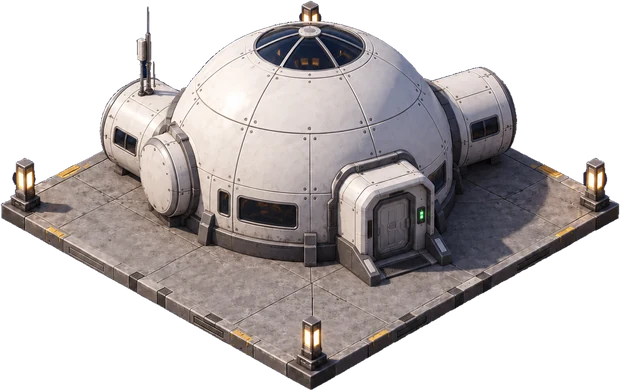
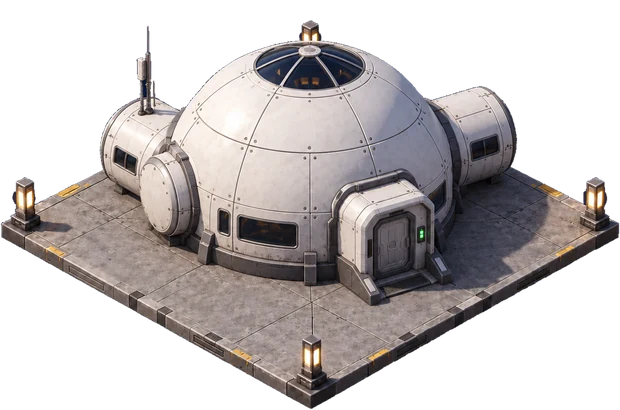
New Moon buildings, with habitat and solar stages
Every Moon building is now on a copy of the cargo pad's platform: all
between 28.9 and 29.4 degrees, one scale. The habitat shows the base's
condition (good, worn, damaged) and the solar field gains panels as it
is built. process.py moves a render whose platform came out off the
pad's back into place, and makes a panels-only mask for the glint. No
night images yet, so the Moon set is dimmed at night; Mars keeps the
first set.

Changed region(s): [[0.0, 0.0, 1.0, 0.9821], [0.7968, 0.491, 0.8274, 0.5217], [0.3677, 0.7366, 0.3984, 0.7673]]

diff --git a/src/ui/BaseView.tsx b/src/ui/BaseView.tsx
@@ -119,8 +119,9 @@ interface Sprite {
   anchor: [number, number]
   single?: boolean // one image, no separate night art
   scale?: number // when the image was shipped at a different size
+  glint?: string // the solar cells alone, where the sunlight glint may fall
 }
-const SPRITES: Record<Exclude<PadId, 'landing'> | 'isru' | 'landerPad' | 'landerPod' | 'moonHabitat', Sprite> = {
+const SPRITES: Record<Exclude<PadId, 'landing'> | 'isru' | 'landerPad' | 'landerPod', Sprite> = {
   habitat: { name: 'habitat', px: [539, 419], anchor: [0.519, 0.57] },
   reactor: { name: 'reactor', px: [393, 423], anchor: [0.496, 0.738] },
   solar: { name: 'solar', px: [510, 314], anchor: [0.558, 0.548] },
@@ -133,10 +134,46 @@ const SPRITES: Record<Exclude<PadId, 'landing'> | 'isru' | 'landerPad' | 'lander
   // lines them up), anchored on the landing circle's centre.
   landerPad: { name: 'lander-pad', px: [619, 482], anchor: [0.501, 0.622], single: true, scale: 0.38 },
   landerPod: { name: 'lander-pod', px: [619, 482], anchor: [0.501, 0.622], single: true, scale: 0.38 },
-  // The second set of buildings (art/ART-GUIDE.md), arriving one at a time.
-  // Each is built on a copy of the cargo pad's platform, so it shares the
-  // pad's scale. Until its night image comes, it is dimmed at night.
-  moonHabitat: { name: 'moon/habitat-good-day', px: [620, 391], anchor: [0.501, 0.532], single: true, scale: 0.38 },
+}
+
+// The second set of buildings (art/ART-GUIDE.md), on the Moon so far; Mars
+// keeps the first set until its own comes. Each is built on a copy of the
+// cargo pad's platform, so all share the pad's scale, and art/process.py
+// cuts a building's stages to one box, so they share a size and anchor.
+// No night images yet: at night each is dimmed like the ground.
+type BuildingId = 'habitat' | 'solar' | 'reactor' | 'greenhouse' | 'lab'
+const MOON_SET: Record<BuildingId, Pick<Sprite, 'px' | 'anchor'>> = {
+  habitat: { px: [620, 410], anchor: [0.501, 0.554] },
+  solar: { px: [620, 366], anchor: [0.501, 0.501] },
+  reactor: { px: [619, 461], anchor: [0.501, 0.604] },
+  greenhouse: { px: [619, 364], anchor: [0.501, 0.499] },
+  lab: { px: [619, 410], anchor: [0.501, 0.553] },
+}
+
+// Two buildings change with the game: the habitat shows the base's
+// condition, and the solar field gains rows of panels as it is built.
+// Where the stages change is a display choice, not a game rule; damaged
+// starts where the habitat's label turns amber (see \`worn\` below).
+function habitatStage(condition: number) {
+  return condition >= 0.85 ? 'good' : condition >= 0.6 ? 'worn' : 'damaged'
+}
+
+function solarStage(game: GameState) {
+  const built = game.facilities.solarArrayM2 / game.scenario.maxSolarArrayM2
+  return built >= 0.85 ? 3 : built >= 0.6 ? 2 : 1
+}
+
+function buildingSprites(game: GameState): Record<BuildingId, Sprite> {
+  if (game.scenario.id !== 'moon') return SPRITES
+  const moon = (id: BuildingId, file: string): Sprite => ({ name: `moon/${file}-day`, ...MOON_SET[id], single: true, scale: 0.38 })
+  const solar = `solar-${solarStage(game)}`
+  return {
+    habitat: moon('habitat', `habitat-${habitatStage(game.facilities.condition)}`),
+    solar: { ...moon('solar', solar), glint: `moon/${solar}-day-glint` },
+    reactor: moon('reactor', 'reactor'),
+    greenhouse: moon('greenhouse', 'greenhouse'),
+    lab: moon('lab', 'lab'),
+  }
 }
 
 // Where astronauts are shown for each task: a pad, or the crater field.
@@ -400,7 +437,7 @@ export function BaseView({ game, decisions, effects }: { game: GameState; decisi
   const isMars = game.scenario.id === 'mars'
   const marsLight = isMars ? 'url(#mars-light)' : undefined
   const terrain = TERRAIN[game.scenario.id]
-  const habitat = isMars ? SPRITES.habitat : SPRITES.moonHabitat
+  const b = buildingSprites(game)
   const fieldSpot = groundAt(terrain, FIELD_UV.u, FIELD_UV.v)
   const night = !lightInfo(game.scenario, game.sol).isDaylight
   const storm = env.dustStormSolsLeft > 0
@@ -428,11 +465,11 @@ export function BaseView({ game, decisions, effects }: { game: GameState; decisi
   const badgesUnder = (place: string, x: number, y: number) =>
     crewAt.has(place) ? <CrewBadges x={x} y={y} crew={crewAt.get(place)!} evaIds={evaIds} /> : null
 
-  const hab = labelAt('habitat', habitat)
-  const lab = labelAt('lab', SPRITES.lab)
-  const gh = labelAt('greenhouse', SPRITES.greenhouse)
-  const sol = labelAt('solar', SPRITES.solar)
-  const rea = labelAt('reactor', SPRITES.reactor)
+  const hab = labelAt('habitat', b.habitat)
+  const lab = labelAt('lab', b.lab)
+  const gh = labelAt('greenhouse', b.greenhouse)
+  const sol = labelAt('solar', b.solar)
+  const rea = labelAt('reactor', b.reactor)
   const cargo = labelAt('landing', SPRITES.landerPod)
   const nextCargo = nextResupplySol(game.scenario, game.sol)
   const worn = f.condition < 0.6
@@ -450,8 +487,8 @@ export function BaseView({ game, decisions, effects }: { game: GameState; decisi
             night is the ground it lands on. */}
         {/* The array's own shape, so its glint falls on the panels and not
             on the ground beside them. */}
-        <mask id="solar-mask" maskUnits="userSpaceOnUse" style={{ maskType: 'alpha' }} {...spriteBox(terrain, 'solar', SPRITES.solar)}>
-          <image href={`${ART}/buildings/solar-day.webp`} {...spriteBox(terrain, 'solar', SPRITES.solar)} />
+        <mask id="solar-mask" maskUnits="userSpaceOnUse" style={{ maskType: 'alpha' }} {...spriteBox(terrain, 'solar', b.solar)}>
+          <image href={b.solar.glint ? `${ART}/buildings/${b.solar.glint}.webp` : art(b.solar, 'day')} {...spriteBox(terrain, 'solar', b.solar)} />
         </mask>
         <filter id="mars-light" colorInterpolationFilters="sRGB">
           <feColorMatrix type="matrix" values={MARS_LIGHT} />
@@ -488,7 +525,7 @@ export function BaseView({ game, decisions, effects }: { game: GameState; decisi
           if (pad === 'greenhouse' && f.greenhouseM2 === 0) return null
           if (load && status(load) !== 'on') return null
           const g = groundAt(terrain, PADS[pad].u, PADS[pad].v)
-          const s = pad === 'habitat' ? habitat : SPRITES[pad]
+          const s = b[pad]
           const rx = s.px[0] * (s.scale ?? BUILDING_SCALE) * 0.95
           return <ellipse key={pad} cx={g.x} cy={g.y} rx={rx} ry={rx * 0.52} fill="url(#lamp-pool)" />
         })}
@@ -508,23 +545,23 @@ export function BaseView({ game, decisions, effects }: { game: GameState; decisi
         <>
           <g filter={marsLight}>
             <g style={{ filter: storm ? 'brightness(0.7)' : undefined }}>
-              <Building terrain={terrain} pad="solar" sprite={SPRITES.solar} night={night} />
+              <Building terrain={terrain} pad="solar" sprite={b.solar} night={night} />
             </g>
           </g>
           {/* Only while the array is actually making power. Outside the Mars
               light: it animates without end, and an animation inside a
               filtered group makes the browser re-run the filter every frame. */}
-          {!night && !storm && <PanelGlint box={spriteBox(terrain, 'solar', SPRITES.solar)} color={GLINT[game.scenario.id]} />}
+          {!night && !storm && <PanelGlint box={spriteBox(terrain, 'solar', b.solar)} color={GLINT[game.scenario.id]} />}
         </>
       )}
       <g filter={marsLight}>
-      <Building terrain={terrain} pad="habitat" sprite={habitat} night={night} />
-      {f.reactorKW > 0 && <Building terrain={terrain} pad="reactor" sprite={SPRITES.reactor} night={night} />}
+      <Building terrain={terrain} pad="habitat" sprite={b.habitat} night={night} />
+      {f.reactorKW > 0 && <Building terrain={terrain} pad="reactor" sprite={b.reactor} night={night} />}
       {f.greenhouseM2 > 0 && (
-        <Building terrain={terrain} pad="greenhouse" sprite={SPRITES.greenhouse} night={night} status={status('greenhouse')} flicker={effects?.powerCut && status('greenhouse') === 'shed'} />
+        <Building terrain={terrain} pad="greenhouse" sprite={b.greenhouse} night={night} status={status('greenhouse')} flicker={effects?.powerCut && status('greenhouse') === 'shed'} />
       )}
       {game.scenario.resupply && <CargoPad terrain={terrain} night={night} landing={!!effects?.resupply} />}
-      <Building terrain={terrain} pad="lab" sprite={SPRITES.lab} night={night} status={status('lab')} flicker={effects?.powerCut && status('lab') === 'shed'} />
+      <Building terrain={terrain} pad="lab" sprite={b.lab} night={night} status={status('lab')} flicker={effects?.powerCut && status('lab') === 'shed'} />
 
       {/* The O₂ plant, on the pad Mars leaves empty. One plant however many
           makers are running: the count is on its label, the same way the

diff --git a/art/process.py b/art/process.py
@@ -19,7 +19,7 @@ generation of art is kept in art/source/v1 and is no longer processed.
 import collections
 from pathlib import Path
 
-from PIL import Image, ImageFilter
+from PIL import Image, ImageChops, ImageFilter
 
 ROOT = Path(__file__).resolve().parent
 SRC = ROOT / 'source'
@@ -271,21 +271,77 @@ PLATFORM_CENTRE = (628, 714)  # the platform's middle, in the 1254px renders
 BUILDING_SHIP = 0.5  # drawn ~250px wide in the game, like the cargo pad
 
 
+def bottom_edge(im: Image.Image) -> dict[int, int]:
+    """The lowest solid pixel in each column: the platform's two front edges."""
+    alpha = im.getchannel('A').load()
+    w, h = im.size
+    edge = {}
+    for x in range(0, w, 4):
+        for y in range(h - 1, -1, -1):
+            if alpha[x, y] > 128:
+                edge[x] = y
+                break
+    return edge
+
+
+def onto_the_pad(im: Image.Image, pad_edge: dict[int, int]) -> tuple[Image.Image, int]:
+    """Move a render up or down so its platform lies where the pad's does.
+
+    The generator sometimes draws the platform a little higher in the frame
+    (the first solar stages came out 31px up), which would make it jump when
+    the game swaps stages. Found by sliding the platform's front edges onto
+    the pad's.
+    """
+    edge = bottom_edge(im)
+    xs = [x for x in edge if x in pad_edge and 200 <= x <= 1050]
+    dy = min(range(-60, 61), key=lambda d: sum(abs(edge[x] + d - pad_edge[x]) for x in xs))
+    if dy == 0:
+        return im, 0
+    moved = Image.new('RGBA', im.size, (0, 0, 0, 0))
+    moved.alpha_composite(im, (0, dy))
+    return moved, dy
+
+
+def panels_only(im: Image.Image) -> Image.Image:
+    """A mask of the solar cells alone: the blue pixels.
+
+    The game runs the sunlight glint across the panels through it, so the
+    light does not also sweep over the bare platform between them.
+    """
+    r, g, b, a = im.split()
+    blue = Image.eval(Image.merge('RGB', (r, g, b)).convert('HSV').getchannel('H'), lambda h: 255 if 150 <= h <= 185 else 0)
+    sat = Image.eval(Image.merge('RGB', (r, g, b)).convert('HSV').getchannel('S'), lambda s: 255 if s > 90 else 0)
+    # Shrinking the outline first drops the navy fringe along its edge.
+    mask = ImageChops.multiply(ImageChops.multiply(blue, sat), a.filter(ImageFilter.MinFilter(9)))
+    white = Image.new('RGBA', im.size, (255, 255, 255, 0))
+    white.putalpha(mask.filter(ImageFilter.GaussianBlur(1)))
+    return white
+
+
 def cut_building_sets() -> None:
+    pad_edge = bottom_edge(drop_flat_background(Image.open(SRC / 'buildings' / 'lander-pad.png')))
     for folder in sorted(p for p in (SRC / 'buildings').iterdir() if p.is_dir() and p.name != 'v1'):
         groups = collections.defaultdict(list)
         for src in sorted(folder.glob('*.png')):
             groups[src.stem.split('-')[0]].append(src)
         for name, srcs in groups.items():
-            cut = {src.stem: drop_flat_background(Image.open(src)) for src in srcs}
+            cut = {}
+            for src in srcs:
+                cut[src.stem], dy = onto_the_pad(drop_flat_background(Image.open(src)), pad_edge)
+                if dy:
+                    print(f'{folder.name}/{src.stem}: platform moved {dy:+d}px onto the pad\'s')
             box = cut[srcs[0].stem].getbbox()
             for im in cut.values():
                 box = union(box, im.getbbox())
             w, h = box[2] - box[0], box[3] - box[1]
             size = (round(w * BUILDING_SHIP), round(h * BUILDING_SHIP))
-            (OUT / 'buildings' / folder.name).mkdir(parents=True, exist_ok=True)
+            dst = OUT / 'buildings' / folder.name
+            dst.mkdir(parents=True, exist_ok=True)
+            ship = lambda im: im.crop(box).resize(size, Image.LANCZOS)
             for stem, im in cut.items():
-                save(im.crop(box).resize(size, Image.LANCZOS), OUT / 'buildings' / folder.name / f'{stem}.webp')
+                save(ship(im), dst / f'{stem}.webp')
+                if name == 'solar' and not stem.endswith('-night'):
+                    save(ship(panels_only(im)), dst / f'{stem}-glint.webp')
             ax = (PLATFORM_CENTRE[0] - box[0]) / w
             ay = (PLATFORM_CENTRE[1] - box[1]) / h
             print(f'{folder.name}/{name}: px [{size[0]}, {size[1]}], anchor [{ax:.3f}, {ay:.3f}]')

diff --git a/art/ART-GUIDE.md b/art/ART-GUIDE.md
@@ -128,11 +128,14 @@ Two buildings change with the game.
 more panel rows stand as the array nears its largest size (the world's
 `maxSolarArrayM2`):
 
-| Stage | Panels | Shown when the array is | Moon | Mars |
+| Stage | Panels (Moon art) | Shown when the array is | Moon | Mars |
 |---|---|---|---|---|
-| 1 | one row | under 60% of its largest | 140–160 m² (the start) | 560–700 m² (the start) |
-| 2 | two rows | 60–85% | 180–240 m² | 720–1000 m² |
-| 3 | three rows | 85% or more | 260–300 m² | 1020–1200 m² |
+| 1 | 2, the rest bare footings | under 60% of its largest | 140–160 m² (the start) | 560–700 m² (the start) |
+| 2 | 5 | 60–85% | 180–240 m² | 720–1000 m² |
+| 3 | 9 | 85% or more | 260–300 m² | 1020–1200 m² |
+
+(The generator read "rows" as the diagonal rows of the diamond, back
+corner first, which reads just as well.)
 
 **The habitat shows the base's condition.** There are three images:
 
@@ -219,6 +222,11 @@ each made from its day image.
 3. Re-measure each slab's corners (`TERRAIN` in `src/ui/BaseView.tsx`),
    and the scene crop (`VIEW`) and building anchors (`SPRITES`) if the
    framing or building art changed.
+
+For the second building set, `process.py` prints each building's size and
+anchor for `MOON_SET` in `BaseView.tsx`. It also moves any render whose
+platform came out higher or lower than the pad's back into place (the
+first solar stages came out 31px high), and prints when it does.
 
 ## Prompts
 
